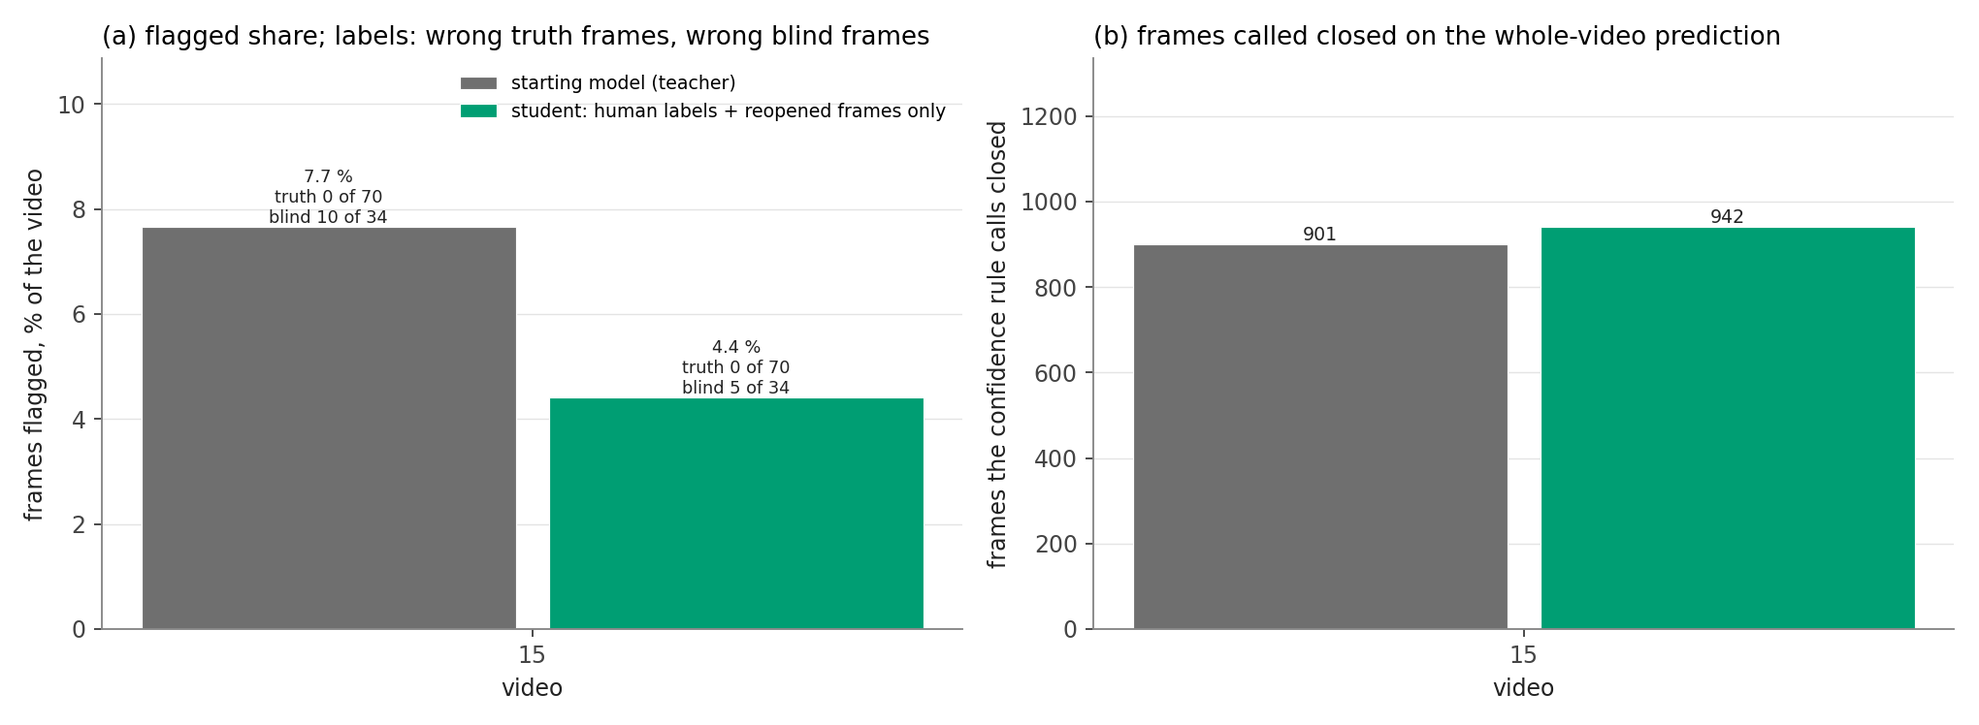
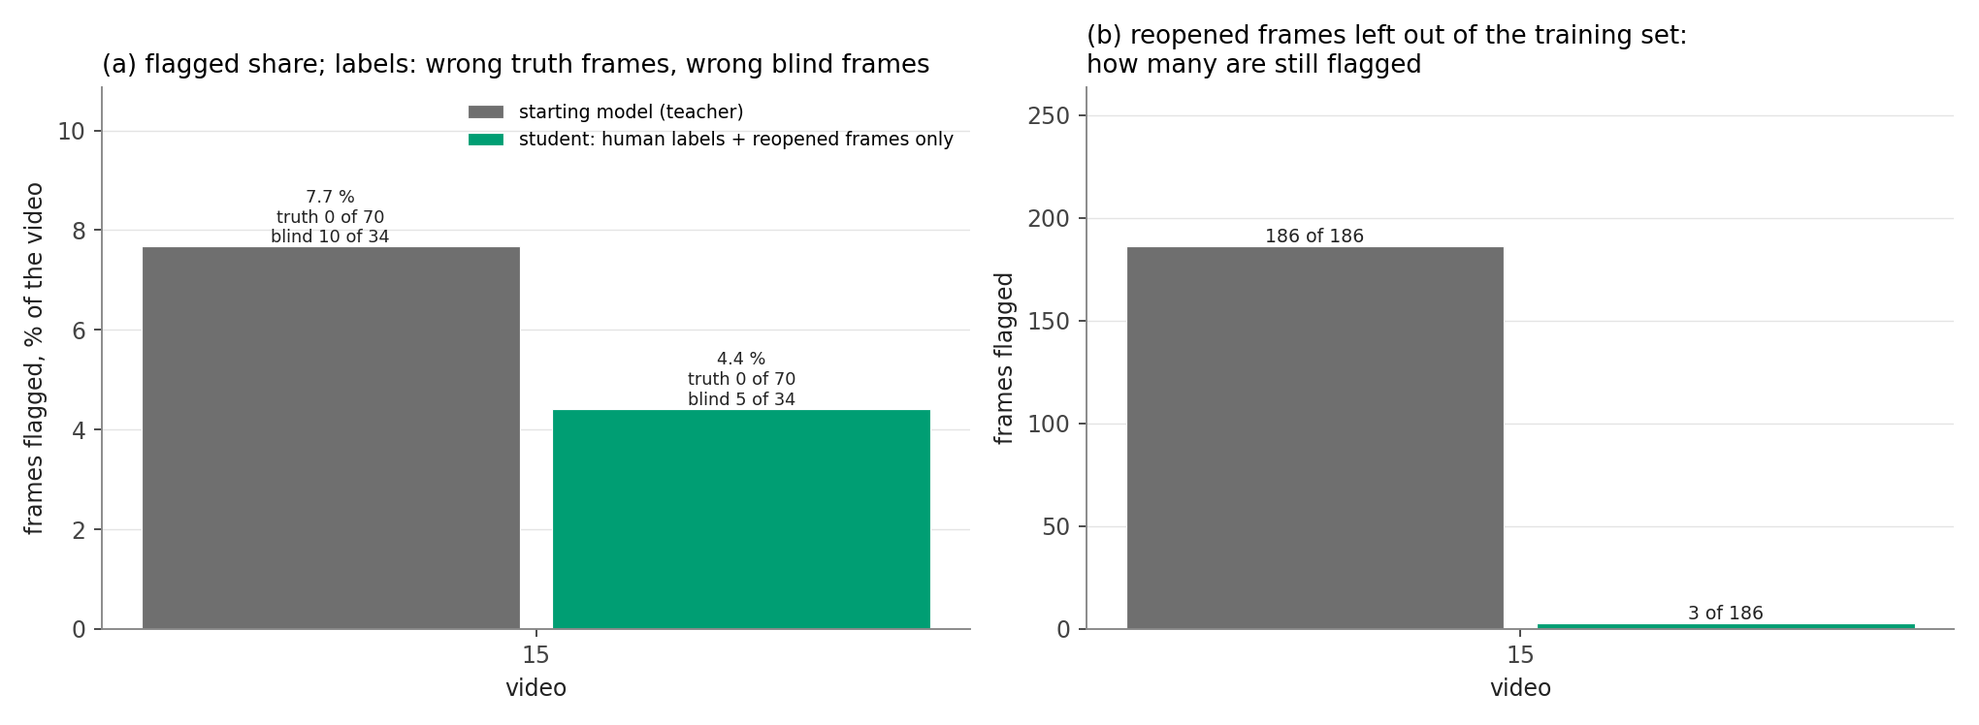
Page 4c, video 15: the student no longer flags 183 of the 186 held-out reopened frames (left pupil point back in the eye); the closed-frame count was the wrong measure and is replaced

diff --git a/report/index.html b/report/index.html
@@ -81,7 +81,7 @@ math[display="block"]{margin:10px 0 6px;text-align:left;overflow-x:auto;max-widt
 
 <header>
   <h1><span lang="zh">小鼠眼睛关键点追踪：做了什么，结果是什么</span><span lang="en">Mouse eye keypoint tracking: what was done and what came out</span></h1>
-  <p class="muted small">Zhiheng Li (University of Minnesota), Kaiwen Sheng (Stanford) · <span lang="zh">页面生成时间</span><span lang="en">page built</span> 2026-11-08 10:36 · <a href="https://github.com/ZhihengLi0/mouse-behavior-tracking">GitHub: ZhihengLi0/mouse-behavior-tracking</a></p>
+  <p class="muted small">Zhiheng Li (University of Minnesota), Kaiwen Sheng (Stanford) · <span lang="zh">页面生成时间</span><span lang="en">page built</span> 2026-11-08 10:42 · <a href="https://github.com/ZhihengLi0/mouse-behavior-tracking">GitHub: ZhihengLi0/mouse-behavior-tracking</a></p>
 
   <div class="text" lang="zh">
     <p><b>任务：</b>用 DeepLabCut 在小鼠眼睛视频的每一帧上找 8 个点：瞳孔上、下、左、右，上眼睑、下眼睑，鼻侧眼角、颞侧眼角。由这 8 个点得到瞳孔大小、眼睛睁开程度和眨眼，之后与脑记录对齐。</p>
@@ -1976,24 +1976,24 @@ math[display="block"]{margin:10px 0 6px;text-align:left;overflow-x:auto;max-widt
   <p class="text"><b><span lang="zh">4c 这些帧进训练集：学生对起点模型</span><span lang="en">4c These frames in the training set: student against starting model</span></b></p>
   <div class="tablebox"><table class="info"><tbody>
     <tr><th><span lang="zh">训练集</span><span lang="en">Training set</span></th><td><span lang="zh">起点模型的人工标注，加上只有 4b 的那些修好的帧（8 个点都取修复后的坐标，没换的点只在置信度低于 0.01 时去掉），避开真值帧和盲测帧前后各 60 帧，不设上限；迭代次数和起点模型相同（和实验一到三同一配方）。在放出来的帧最多的三个视频上做：视频 15 进入 660 帧、60 轮；视频 11 进入 512 帧；视频 1 排队。</span><span lang="en">The starting model's human labels plus only the repaired frames of 4b (all 8 points at their repaired coordinates, a non-replaced point dropped only below likelihood 0.01), excluding 60 frames around every truth and blind frame, no cap; iterations as the starting model's (the recipe of experiments 1 to 3). On the three videos with most reopened frames: video 15, 660 frames and 60 epochs; video 11, 512 frames; video 1 queued.</span></td></tr>
-    <tr><th><span lang="zh">真值是什么</span><span lang="en">What counts as truth</span></th><td><span lang="zh">和实验一到三相同：每个视频 70 帧人工标注的真值帧（错帧 = 误差超过 0.14 眼宽）、34 帧人工标注的盲测帧（视频 15 和 1 有，视频 11 没有）、整段标出率；另加整段预测里置信度判据判闭眼的帧数，这些帧进训练集如果有用，学生应该少把眼睛预测成闭合。</span><span lang="en">As in experiments 1 to 3: the 70 human-labeled truth frames of each video (wrong = error above 0.14 eye widths), the 34 human-labeled blind frames (videos 15 and 1 have them, video 11 does not), the flagged share of the video; plus the number of frames the confidence criterion calls closed on the whole-video prediction, which should fall if these frames help.</span></td></tr>
+    <tr><th><span lang="zh">真值是什么</span><span lang="en">What counts as truth</span></th><td><span lang="zh">和实验一到三相同：每个视频 70 帧人工标注的真值帧（错帧 = 误差超过 0.14 眼宽）、34 帧人工标注的盲测帧（视频 15 和 1 有，视频 11 没有）、整段标出率；另看没进训练集的那部分放出来的帧（离真值帧或盲测帧 60 帧以内、被排除在训练集外的）：起点模型在这些帧上全部被标出（修复帧都是被标出的帧），学生如果学会了这类帧，应该不再标出它们。</span><span lang="en">As in experiments 1 to 3: the 70 human-labeled truth frames of each video (wrong = error above 0.14 eye widths), the 34 human-labeled blind frames (videos 15 and 1 have them, video 11 does not), the flagged share of the video; plus the reopened frames left out of the training set (within 60 frames of a truth or blind frame): the starting model flags every one of them (a repaired frame is a flagged frame), and a student that has learned this kind of frame should no longer flag them.</span></td></tr>
   </tbody></table></div>
   <figure>
     <div class="figbox wide"><img src="assets/fig_loop_exp4c.png" alt="Experiment 4c: starting model against the student trained on the reopened frames only: flagged share with wrong truth and blind frames, and frames the confidence rule calls closed"></div>
-    <figcaption lang="zh"><span class="tag">图 9-23：</span>实验四 4c，每个视频起点模型（灰）对学生（绿）。(a) 整段标出率，柱上标 70 帧真值帧和 34 帧盲测帧里预测错的。(b) 整段预测里置信度判据判闭眼的帧数。视频 11 和 1 的结果出来后加入。</figcaption>
-    <figcaption lang="en"><span class="tag">Figure 9-23:</span>Experiment 4c, starting model (grey) against the student (green) per video. (a) Flagged share of the video, with the wrong frames of the 70 truth frames and of the 34 blind frames. (b) Frames the confidence criterion calls closed on the whole-video prediction. Videos 11 and 1 are added as they finish.</figcaption>
+    <figcaption lang="zh"><span class="tag">图 9-23：</span>实验四 4c，每个视频起点模型（灰）对学生（绿）。(a) 整段标出率，柱上标 70 帧真值帧和 34 帧盲测帧里预测错的。(b) 没进训练集的那部分放出来的帧里，仍被标出的帧数。视频 11 和 1 的结果出来后加入。</figcaption>
+    <figcaption lang="en"><span class="tag">Figure 9-23:</span>Experiment 4c, starting model (grey) against the student (green) per video. (a) Flagged share of the video, with the wrong frames of the 70 truth frames and of the 34 blind frames. (b) Of the reopened frames left out of the training set, how many are still flagged. Videos 11 and 1 are added as they finish.</figcaption>
   </figure>
   <p class="text"><b><span lang="zh">表 9-4-11：实验四 4c，起点模型 → 学生</span><span lang="en">Table 9-4-11: experiment 4c, starting model → student</span></b></p>
   <div class="tablebox"><table>
-    <thead><tr><th><span lang="zh">视频</span><span lang="en">Video</span></th><th><span lang="zh">进入训练集的帧</span><span lang="en">Frames added</span></th><th><span lang="zh">中位误差（% 眼宽）</span><span lang="en">Median error (% eye width)</span></th><th><span lang="zh">70 帧真值帧里预测错的</span><span lang="en">Wrong of the 70 truth frames</span></th><th><span lang="zh">整段标出率 %</span><span lang="en">Flagged share %</span></th><th><span lang="zh">34 帧盲测帧里预测错的</span><span lang="en">Wrong of the 34 blind frames</span></th><th><span lang="zh">整段判闭眼的帧（置信度判据）</span><span lang="en">Frames called closed (confidence criterion)</span></th></tr></thead>
+    <thead><tr><th><span lang="zh">视频</span><span lang="en">Video</span></th><th><span lang="zh">进入训练集的帧</span><span lang="en">Frames added</span></th><th><span lang="zh">中位误差（% 眼宽）</span><span lang="en">Median error (% eye width)</span></th><th><span lang="zh">70 帧真值帧里预测错的</span><span lang="en">Wrong of the 70 truth frames</span></th><th><span lang="zh">整段标出率 %</span><span lang="en">Flagged share %</span></th><th><span lang="zh">34 帧盲测帧里预测错的</span><span lang="en">Wrong of the 34 blind frames</span></th><th><span lang="zh">没进训练集的放出来的帧里仍被标出的</span><span lang="en">Reopened frames left out of training, still flagged</span></th></tr></thead>
     <tbody>
-      <tr><td>15</td><td>660</td><td>2.42 → 2.50</td><td>0 → 0</td><td>7.67 → 4.41</td><td>10 → 5</td><td>901 → 942</td></tr>
+      <tr><td>15</td><td>660</td><td>2.42 → 2.50</td><td>0 → 0</td><td>7.67 → 4.41</td><td>10 → 5</td><td>186 → 3（186 帧）</td></tr>
       <tr><td>11</td><td>512</td><td colspan="5"><span lang="zh">训练中</span><span lang="en">training</span></td></tr>
       <tr><td>1</td><td></td><td colspan="5"><span lang="zh">排队</span><span lang="en">queued</span></td></tr>
     </tbody>
   </table></div>
-  <div class="concl" lang="zh"><span class="tag">4c 的结论（视频 15，其余待出）：</span>只用 660 帧放出来修好的帧训练，学生比起点模型好：整段标出率 7.67% 到 4.41%，盲测错帧 10 到 5，真值帧仍 0 错，中位误差相差 0.1% 以内；但整段预测里判闭眼的帧没有减少（901 到 942）。这些帧进训练集是有益的，对"模型把眼睛预测成闭合"这件事本身没有改善；视频 11 和 1 出来后再下总结论。</div>
-  <div class="concl" lang="en"><span class="tag">Conclusion of 4c (video 15, the others pending):</span>trained on the 660 reopened and repaired frames only, the student beats its starting model: flagged share 7.67% to 4.41%, wrong blind frames 10 to 5, truth frames still 0 wrong, median error within 0.1%; but the frames called closed on its prediction do not fall (901 to 942). These frames are useful in the training set; they do not change how often the model predicts a closed eye. The overall conclusion waits for videos 11 and 1.</div>
+  <div class="concl" lang="zh"><span class="tag">4c 的结论（视频 15，其余待出）：</span>只用 660 帧放出来修好的帧训练，学生比起点模型好，而且学会了这类帧。整段标出率 7.67% 到 4.41%，盲测错帧 10 到 5，真值帧仍 0 错，中位误差相差 0.1% 以内。没进训练集的 186 帧放出来的帧，起点模型全部标出，学生只标出 3 帧：这些帧在视频 15 里是眼睛眯成一条缝、眼睑点本身没错、左瞳孔点被扔到眼外的帧（起点模型左右瞳孔点相距 1.15 个眼宽，学生 0.26 个眼宽，正常瞳孔宽度）。眼睛确实眯着，所以开度规则在学生的预测上仍把它们判为闭眼（186 帧里 177 帧），这正是开度规则误判的那类帧，置信度判据不把它们判闭眼（0 帧）。</div>
+  <div class="concl" lang="en"><span class="tag">Conclusion of 4c (video 15, the others pending):</span>trained on the 660 reopened and repaired frames only, the student beats its starting model and has learned this kind of frame. Flagged share 7.67% to 4.41%, wrong blind frames 10 to 5, truth frames still 0 wrong, median error within 0.1%. Of the 186 reopened frames left out of the training set, the starting model flags all and the student 3: in video 15 these are frames with the eye narrowed to a slit, the eyelid points right and the left pupil point thrown outside the eye (left to right pupil point 1.15 eye widths for the starting model, 0.26 for the student, a normal pupil width). The eye is narrowed, so the opening rule still calls 177 of the 186 closed on the student's prediction; these are exactly the frames the opening rule gets wrong, and the confidence criterion calls none of them closed.</div>
 
   <h4><span lang="zh">实验五：最终循环训练版本</span><span lang="en">Experiment 5: the final loop version</span></h4>
   <div class="text" lang="zh">

diff --git a/report/template.html b/report/template.html
@@ -1868,24 +1868,24 @@ math[display="block"]{margin:10px 0 6px;text-align:left;overflow-x:auto;max-widt
   <p class="text"><b><span lang="zh">4c 这些帧进训练集：学生对起点模型</span><span lang="en">4c These frames in the training set: student against starting model</span></b></p>
   <div class="tablebox"><table class="info"><tbody>
     <tr><th><span lang="zh">训练集</span><span lang="en">Training set</span></th><td><span lang="zh">起点模型的人工标注，加上只有 4b 的那些修好的帧（8 个点都取修复后的坐标，没换的点只在置信度低于 0.01 时去掉），避开真值帧和盲测帧前后各 60 帧，不设上限；迭代次数和起点模型相同（和实验一到三同一配方）。在放出来的帧最多的三个视频上做：视频 15 进入 660 帧、60 轮；视频 11 进入 512 帧；视频 1 排队。</span><span lang="en">The starting model's human labels plus only the repaired frames of 4b (all 8 points at their repaired coordinates, a non-replaced point dropped only below likelihood 0.01), excluding 60 frames around every truth and blind frame, no cap; iterations as the starting model's (the recipe of experiments 1 to 3). On the three videos with most reopened frames: video 15, 660 frames and 60 epochs; video 11, 512 frames; video 1 queued.</span></td></tr>
-    <tr><th><span lang="zh">真值是什么</span><span lang="en">What counts as truth</span></th><td><span lang="zh">和实验一到三相同：每个视频 70 帧人工标注的真值帧（错帧 = 误差超过 0.14 眼宽）、34 帧人工标注的盲测帧（视频 15 和 1 有，视频 11 没有）、整段标出率；另加整段预测里置信度判据判闭眼的帧数，这些帧进训练集如果有用，学生应该少把眼睛预测成闭合。</span><span lang="en">As in experiments 1 to 3: the 70 human-labeled truth frames of each video (wrong = error above 0.14 eye widths), the 34 human-labeled blind frames (videos 15 and 1 have them, video 11 does not), the flagged share of the video; plus the number of frames the confidence criterion calls closed on the whole-video prediction, which should fall if these frames help.</span></td></tr>
+    <tr><th><span lang="zh">真值是什么</span><span lang="en">What counts as truth</span></th><td><span lang="zh">和实验一到三相同：每个视频 70 帧人工标注的真值帧（错帧 = 误差超过 0.14 眼宽）、34 帧人工标注的盲测帧（视频 15 和 1 有，视频 11 没有）、整段标出率；另看没进训练集的那部分放出来的帧（离真值帧或盲测帧 60 帧以内、被排除在训练集外的）：起点模型在这些帧上全部被标出（修复帧都是被标出的帧），学生如果学会了这类帧，应该不再标出它们。</span><span lang="en">As in experiments 1 to 3: the 70 human-labeled truth frames of each video (wrong = error above 0.14 eye widths), the 34 human-labeled blind frames (videos 15 and 1 have them, video 11 does not), the flagged share of the video; plus the reopened frames left out of the training set (within 60 frames of a truth or blind frame): the starting model flags every one of them (a repaired frame is a flagged frame), and a student that has learned this kind of frame should no longer flag them.</span></td></tr>
   </tbody></table></div>
   <figure>
     <div class="figbox wide"><img src="assets/fig_loop_exp4c.png" alt="Experiment 4c: starting model against the student trained on the reopened frames only: flagged share with wrong truth and blind frames, and frames the confidence rule calls closed"></div>
-    <figcaption lang="zh"><span class="tag">图 9-23：</span>实验四 4c，每个视频起点模型（灰）对学生（绿）。(a) 整段标出率，柱上标 70 帧真值帧和 34 帧盲测帧里预测错的。(b) 整段预测里置信度判据判闭眼的帧数。视频 11 和 1 的结果出来后加入。</figcaption>
-    <figcaption lang="en"><span class="tag">Figure 9-23:</span>Experiment 4c, starting model (grey) against the student (green) per video. (a) Flagged share of the video, with the wrong frames of the 70 truth frames and of the 34 blind frames. (b) Frames the confidence criterion calls closed on the whole-video prediction. Videos 11 and 1 are added as they finish.</figcaption>
+    <figcaption lang="zh"><span class="tag">图 9-23：</span>实验四 4c，每个视频起点模型（灰）对学生（绿）。(a) 整段标出率，柱上标 70 帧真值帧和 34 帧盲测帧里预测错的。(b) 没进训练集的那部分放出来的帧里，仍被标出的帧数。视频 11 和 1 的结果出来后加入。</figcaption>
+    <figcaption lang="en"><span class="tag">Figure 9-23:</span>Experiment 4c, starting model (grey) against the student (green) per video. (a) Flagged share of the video, with the wrong frames of the 70 truth frames and of the 34 blind frames. (b) Of the reopened frames left out of the training set, how many are still flagged. Videos 11 and 1 are added as they finish.</figcaption>
   </figure>
   <p class="text"><b><span lang="zh">表 9-4-11：实验四 4c，起点模型 → 学生</span><span lang="en">Table 9-4-11: experiment 4c, starting model → student</span></b></p>
   <div class="tablebox"><table>
-    <thead><tr><th><span lang="zh">视频</span><span lang="en">Video</span></th><th><span lang="zh">进入训练集的帧</span><span lang="en">Frames added</span></th><th><span lang="zh">中位误差（% 眼宽）</span><span lang="en">Median error (% eye width)</span></th><th><span lang="zh">70 帧真值帧里预测错的</span><span lang="en">Wrong of the 70 truth frames</span></th><th><span lang="zh">整段标出率 %</span><span lang="en">Flagged share %</span></th><th><span lang="zh">34 帧盲测帧里预测错的</span><span lang="en">Wrong of the 34 blind frames</span></th><th><span lang="zh">整段判闭眼的帧（置信度判据）</span><span lang="en">Frames called closed (confidence criterion)</span></th></tr></thead>
+    <thead><tr><th><span lang="zh">视频</span><span lang="en">Video</span></th><th><span lang="zh">进入训练集的帧</span><span lang="en">Frames added</span></th><th><span lang="zh">中位误差（% 眼宽）</span><span lang="en">Median error (% eye width)</span></th><th><span lang="zh">70 帧真值帧里预测错的</span><span lang="en">Wrong of the 70 truth frames</span></th><th><span lang="zh">整段标出率 %</span><span lang="en">Flagged share %</span></th><th><span lang="zh">34 帧盲测帧里预测错的</span><span lang="en">Wrong of the 34 blind frames</span></th><th><span lang="zh">没进训练集的放出来的帧里仍被标出的</span><span lang="en">Reopened frames left out of training, still flagged</span></th></tr></thead>
     <tbody>
-      <tr><td>15</td><td>660</td><td>2.42 → 2.50</td><td>0 → 0</td><td>7.67 → 4.41</td><td>10 → 5</td><td>901 → 942</td></tr>
+      <tr><td>15</td><td>660</td><td>2.42 → 2.50</td><td>0 → 0</td><td>7.67 → 4.41</td><td>10 → 5</td><td>186 → 3（186 帧）</td></tr>
       <tr><td>11</td><td>512</td><td colspan="5"><span lang="zh">训练中</span><span lang="en">training</span></td></tr>
       <tr><td>1</td><td></td><td colspan="5"><span lang="zh">排队</span><span lang="en">queued</span></td></tr>
     </tbody>
   </table></div>
-  <div class="concl" lang="zh"><span class="tag">4c 的结论（视频 15，其余待出）：</span>只用 660 帧放出来修好的帧训练，学生比起点模型好：整段标出率 7.67% 到 4.41%，盲测错帧 10 到 5，真值帧仍 0 错，中位误差相差 0.1% 以内；但整段预测里判闭眼的帧没有减少（901 到 942）。这些帧进训练集是有益的，对"模型把眼睛预测成闭合"这件事本身没有改善；视频 11 和 1 出来后再下总结论。</div>
-  <div class="concl" lang="en"><span class="tag">Conclusion of 4c (video 15, the others pending):</span>trained on the 660 reopened and repaired frames only, the student beats its starting model: flagged share 7.67% to 4.41%, wrong blind frames 10 to 5, truth frames still 0 wrong, median error within 0.1%; but the frames called closed on its prediction do not fall (901 to 942). These frames are useful in the training set; they do not change how often the model predicts a closed eye. The overall conclusion waits for videos 11 and 1.</div>
+  <div class="concl" lang="zh"><span class="tag">4c 的结论（视频 15，其余待出）：</span>只用 660 帧放出来修好的帧训练，学生比起点模型好，而且学会了这类帧。整段标出率 7.67% 到 4.41%，盲测错帧 10 到 5，真值帧仍 0 错，中位误差相差 0.1% 以内。没进训练集的 186 帧放出来的帧，起点模型全部标出，学生只标出 3 帧：这些帧在视频 15 里是眼睛眯成一条缝、眼睑点本身没错、左瞳孔点被扔到眼外的帧（起点模型左右瞳孔点相距 1.15 个眼宽，学生 0.26 个眼宽，正常瞳孔宽度）。眼睛确实眯着，所以开度规则在学生的预测上仍把它们判为闭眼（186 帧里 177 帧），这正是开度规则误判的那类帧，置信度判据不把它们判闭眼（0 帧）。</div>
+  <div class="concl" lang="en"><span class="tag">Conclusion of 4c (video 15, the others pending):</span>trained on the 660 reopened and repaired frames only, the student beats its starting model and has learned this kind of frame. Flagged share 7.67% to 4.41%, wrong blind frames 10 to 5, truth frames still 0 wrong, median error within 0.1%. Of the 186 reopened frames left out of the training set, the starting model flags all and the student 3: in video 15 these are frames with the eye narrowed to a slit, the eyelid points right and the left pupil point thrown outside the eye (left to right pupil point 1.15 eye widths for the starting model, 0.26 for the student, a normal pupil width). The eye is narrowed, so the opening rule still calls 177 of the 186 closed on the student's prediction; these are exactly the frames the opening rule gets wrong, and the confidence criterion calls none of them closed.</div>
 
   <h4><span lang="zh">实验五：最终循环训练版本</span><span lang="en">Experiment 5: the final loop version</span></h4>
   <div class="text" lang="zh">

diff --git a/v2_new_pupil_top_video_scaling/scripts/self_training_figures.py b/v2_new_pupil_top_video_scaling/scripts/self_training_figures.py
@@ -425,9 +425,18 @@ def fig_exp4c():
                 n = int(B_[B_.model == m].wrong_frames.sum()); tot = int(B_[B_.model == m].frames.sum())
                 bl = f"\nblind {n} of {tot}"
             axes[0].text(x, e.flagged_either_pct, f"{e.flagged_either_pct:.1f} %\ntruth {int(e.wrong_frames)} of 70{bl}", ha="center", va="bottom", fontsize=7.5, color="#222")
-            op, cf = _closed_counts(v, m)
-            axes[1].bar([x], [cf], w * 0.92, color=c, label=lab if i == 0 else None, edgecolor="white", linewidth=0.5)
-            axes[1].text(x, cf, f"{cf:,}", ha="center", va="bottom", fontsize=8, color="#222")
+    # (b) the reopened frames the student was NOT trained on (within 60 frames of a truth or blind frame): the teacher
+    # flagged every one of them (a repaired frame is a flagged frame); how many does the student still flag?
+    for i, v in enumerate(vids):
+        F = pd.read_csv(RES / "self_training" / f"video{v:02d}" / "pseudo_reopened" / "pseudo_frames.csv")
+        held = F.frame[~F.kept].to_numpy()
+        Sf = pd.read_csv(RES / "self_training" / f"video{v:02d}" / "round1_reopened" / "flags.csv.gz").set_index("frame").loc[held]
+        st = int((Sf.fit_flag | Sf.pca_flag).sum())
+        for j, (m, c, lab) in enumerate(series):
+            y = len(held) if m == "teacher" else st
+            x = i + (j - 0.5) * w
+            axes[1].bar([x], [y], w * 0.92, color=c, label=lab if i == 0 else None, edgecolor="white", linewidth=0.5)
+            axes[1].text(x, y, f"{y} of {len(held)}", ha="center", va="bottom", fontsize=8, color="#222")
     for ax in axes:
         ax.set_xticks(range(len(vids)))
         ax.set_xticklabels([str(v) for v in vids])
@@ -438,8 +447,8 @@ def fig_exp4c():
     axes[0].set_ylabel("frames flagged, % of the video")
     axes[0].set_title("(a) flagged share; labels: wrong truth frames, wrong blind frames", loc="left")
     axes[0].legend(frameon=False, fontsize=8, loc="upper right")
-    axes[1].set_ylabel("frames the confidence rule calls closed")
-    axes[1].set_title("(b) frames called closed on the whole-video prediction", loc="left")
+    axes[1].set_ylabel("frames flagged")
+    axes[1].set_title("(b) reopened frames left out of the training set:\nhow many are still flagged", loc="left")
     fig.tight_layout()
     fig.savefig(OUT / "loop_exp4c.png", dpi=170)
     plt.close(fig)
